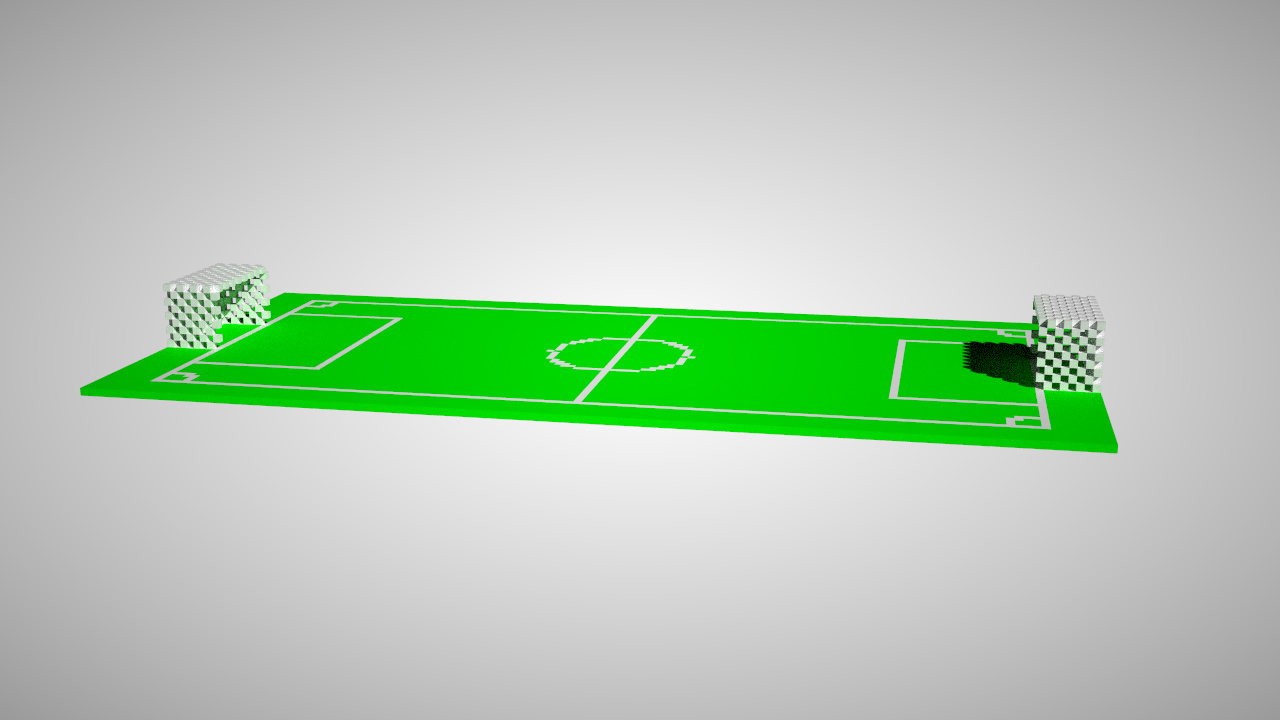
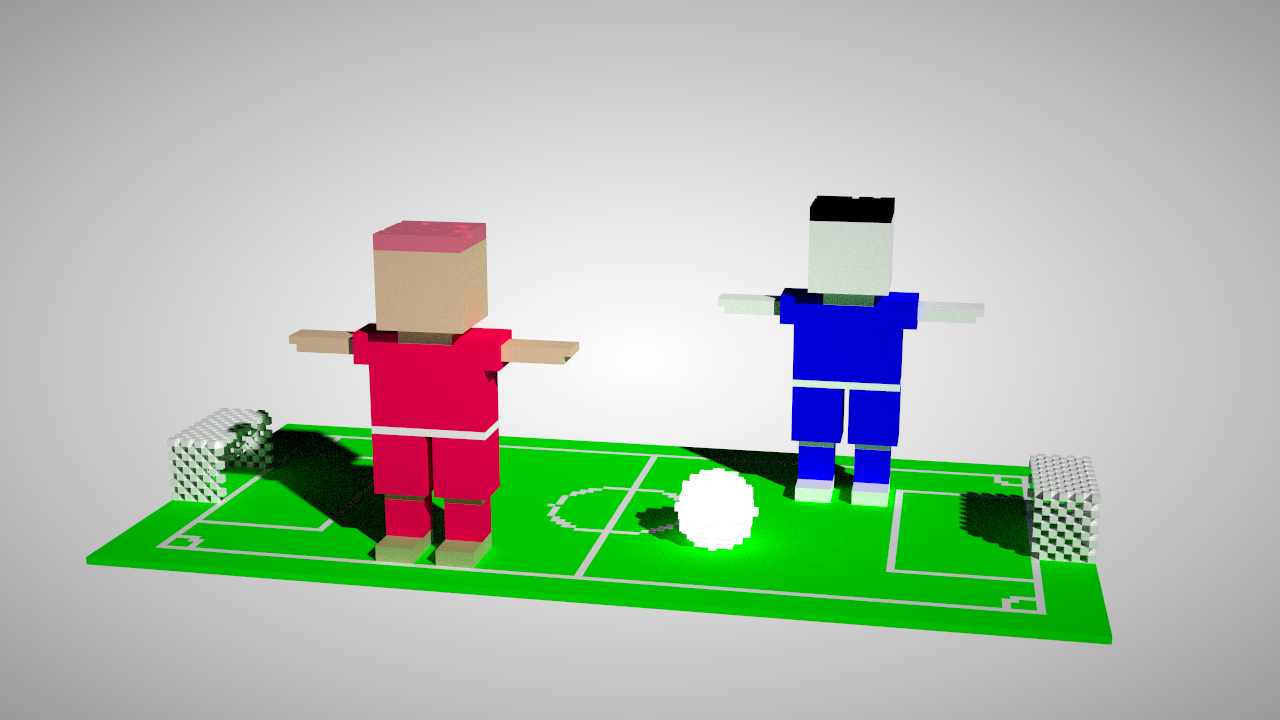
update scene 03

diff --git a/gallery/scene03.py b/gallery/scene03.py
@@ -1,4 +1,4 @@
-from scene import Scene, MAT_LAMBERTIAN
+from scene import Scene, MAT_LAMBERTIAN, MAT_LIGHT
 import taichi as ti
 from taichi.math import *
 
@@ -10,6 +10,8 @@ scene.set_directional_light((0.5, 0.5, 0.5),
 
 GREEN = vec3(0.0, 1.0, 0.0)
 WHITE = vec3(1.0, 1.0, 1.0)
+BLUE = vec3(0.0, 0.0, 1.0)
+BLACK = vec3(0.0, 0.0, 0.0)
 OUTER = (56, 26)
 INNER = (38, 16)
 
@@ -24,6 +26,47 @@ def should_be_white(i, j):
         (4 < ti.sqrt((i + OUTER[0]) ** 2 + (j - OUTER[1]) ** 2) <= 5) or
         (4 < ti.sqrt((i - OUTER[0]) ** 2 + (j + OUTER[1]) ** 2) <= 5) or
         (4 < ti.sqrt((i + OUTER[0]) ** 2 + (j + OUTER[1]) ** 2) <= 5))
+
+
+@ti.func
+def plot_grid(xs, xe, ys, ye, zs, ze, color, probability=1.0):
+    for x in range(xs, xe + 1):
+        for y in range(ys, ye + 1):
+            for z in range(zs, ze + 1):
+                if ti.random() < probability:
+                    scene.set_voxel(vec3(x, z, y), MAT_LAMBERTIAN, color)
+
+
+@ti.func
+def plot_sphere(x, y, z, r, color):
+    for i in range(x - r, x + r + 1):
+        for j in range(y - r, y + r + 1):
+            for k in range(z - r, z + r + 1):
+                if ti.sqrt((i - x) ** 2 + (j - y) ** 2 + (k - z) ** 2) <= r:
+                    scene.set_voxel(vec3(i, k, j), MAT_LIGHT, color)
+
+
+@ti.func
+def plot_player(x, y, shoes=WHITE, clothes=BLUE, skin=WHITE, hair=BLACK):
+    plot_grid(x - 6, x - 2, y - 6, y + 1, 1, 2, shoes)
+    plot_grid(x + 2, x + 6, y - 6, y + 1, 1, 2, shoes)
+    plot_grid(x - 6, x - 2, y - 6, y - 3, 3, 7, clothes)
+    plot_grid(x + 2, x + 6, y - 6, y - 3, 3, 7, clothes)
+    plot_grid(x - 6, x - 2, y - 6, y - 3, 8, 8, skin)
+    plot_grid(x + 2, x + 6, y - 6, y - 3, 8, 8, skin)
+    plot_grid(x - 7, x - 1, y - 7, y - 2, 9, 16, clothes)
+    plot_grid(x + 1, x + 7, y - 7, y - 2, 9, 16, clothes)
+    plot_grid(x - 7, x + 7, y - 7, y - 2, 17, 17, WHITE)
+    plot_grid(x - 7, x + 7, y - 7, y - 2, 18, 25, clothes)
+    plot_grid(x - 9, x + 9, y - 7, y - 2, 26, 29, clothes)
+    plot_grid(x - 17, x - 10, y - 6, y - 3, 27, 27, skin)
+    plot_grid(x + 10, x + 17, y - 6, y - 3, 27, 27, skin)
+    plot_grid(x - 18, x - 10, y - 6, y - 3, 28, 28, skin)
+    plot_grid(x + 10, x + 18, y - 6, y - 3, 28, 28, skin)
+    plot_grid(x - 3, x + 3, y - 8, y - 2, 29, 30, skin)
+    plot_grid(x - 5, x + 5, y - 10, y, 31, 40, skin)
+    plot_grid(x - 5, x + 5, y - 10, y, 41, 41, hair)
+    plot_grid(x - 5, x + 5, y - 10, y, 42, 42, hair, 0.8)
 
 
 @ti.kernel
@@ -41,6 +84,12 @@ def initialize_voxels():
                     scene.set_voxel(vec3(-i, k, j), MAT_LAMBERTIAN, WHITE)
                     scene.set_voxel(vec3(i, k, -j), MAT_LAMBERTIAN, WHITE)
                     scene.set_voxel(vec3(-i, k, -j), MAT_LAMBERTIAN, WHITE)
+
+    plot_player(30, -10)
+    plot_player(-20, 24, vec3(0.4, 0.5, 0.2), vec3(1.0, 0.0, 0.1),
+                vec3(0.8, 0.6, 0.4), vec3(0.8, 0.2, 0.3))
+
+    plot_sphere(15, 10, 5, 5, WHITE)
 
 
 initialize_voxels()
